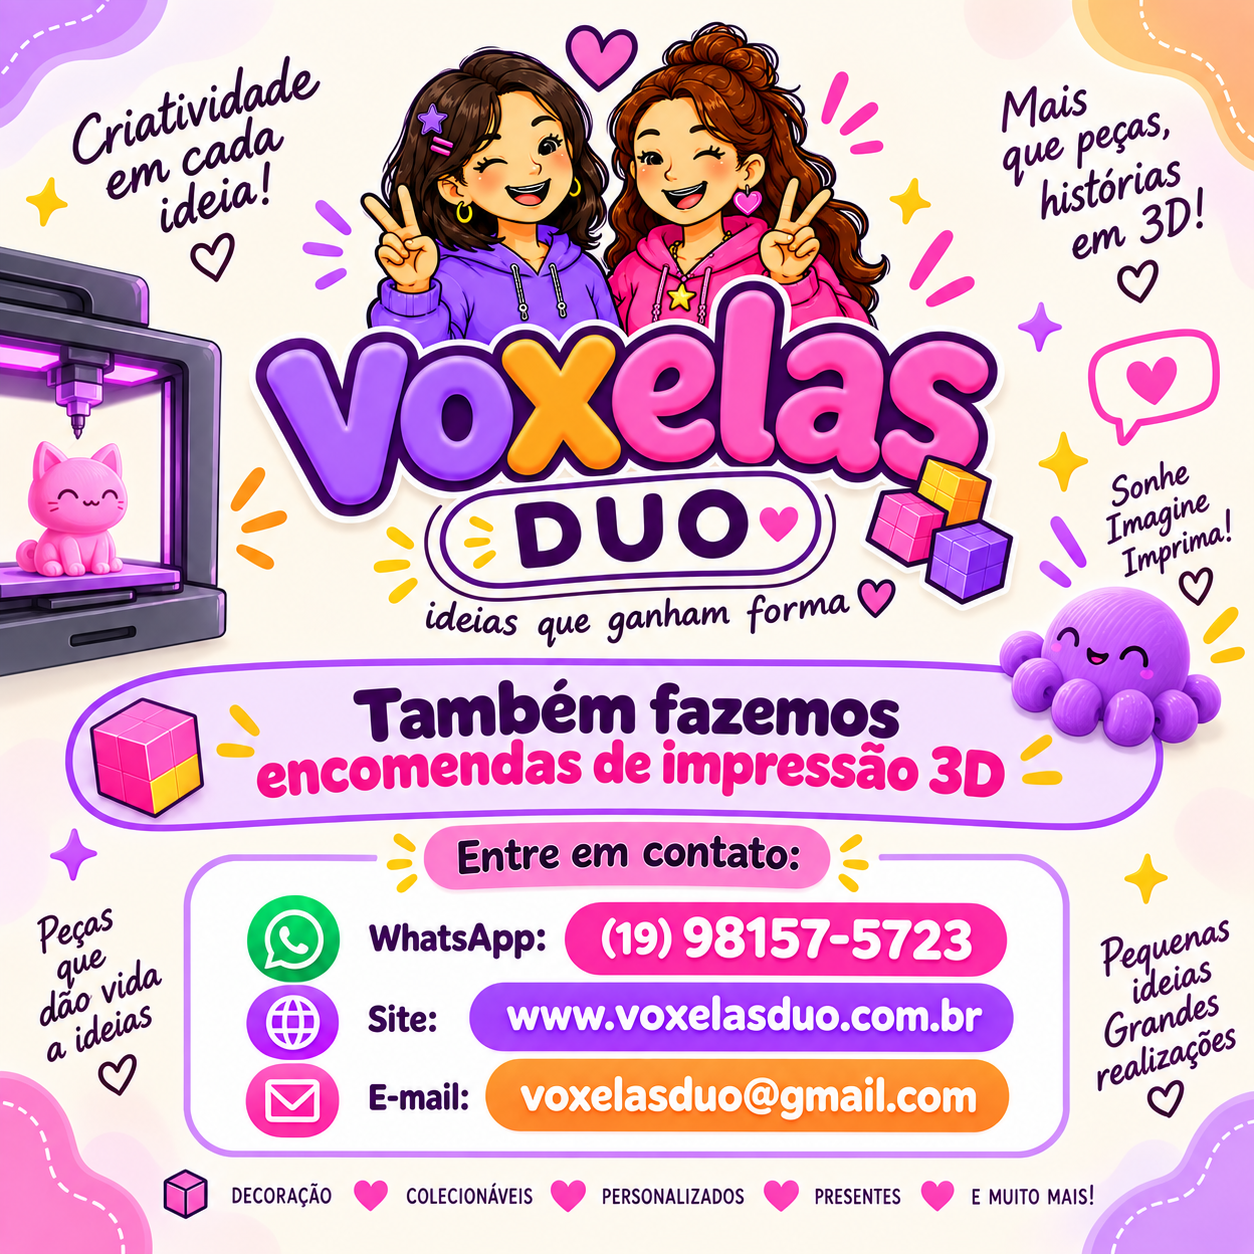
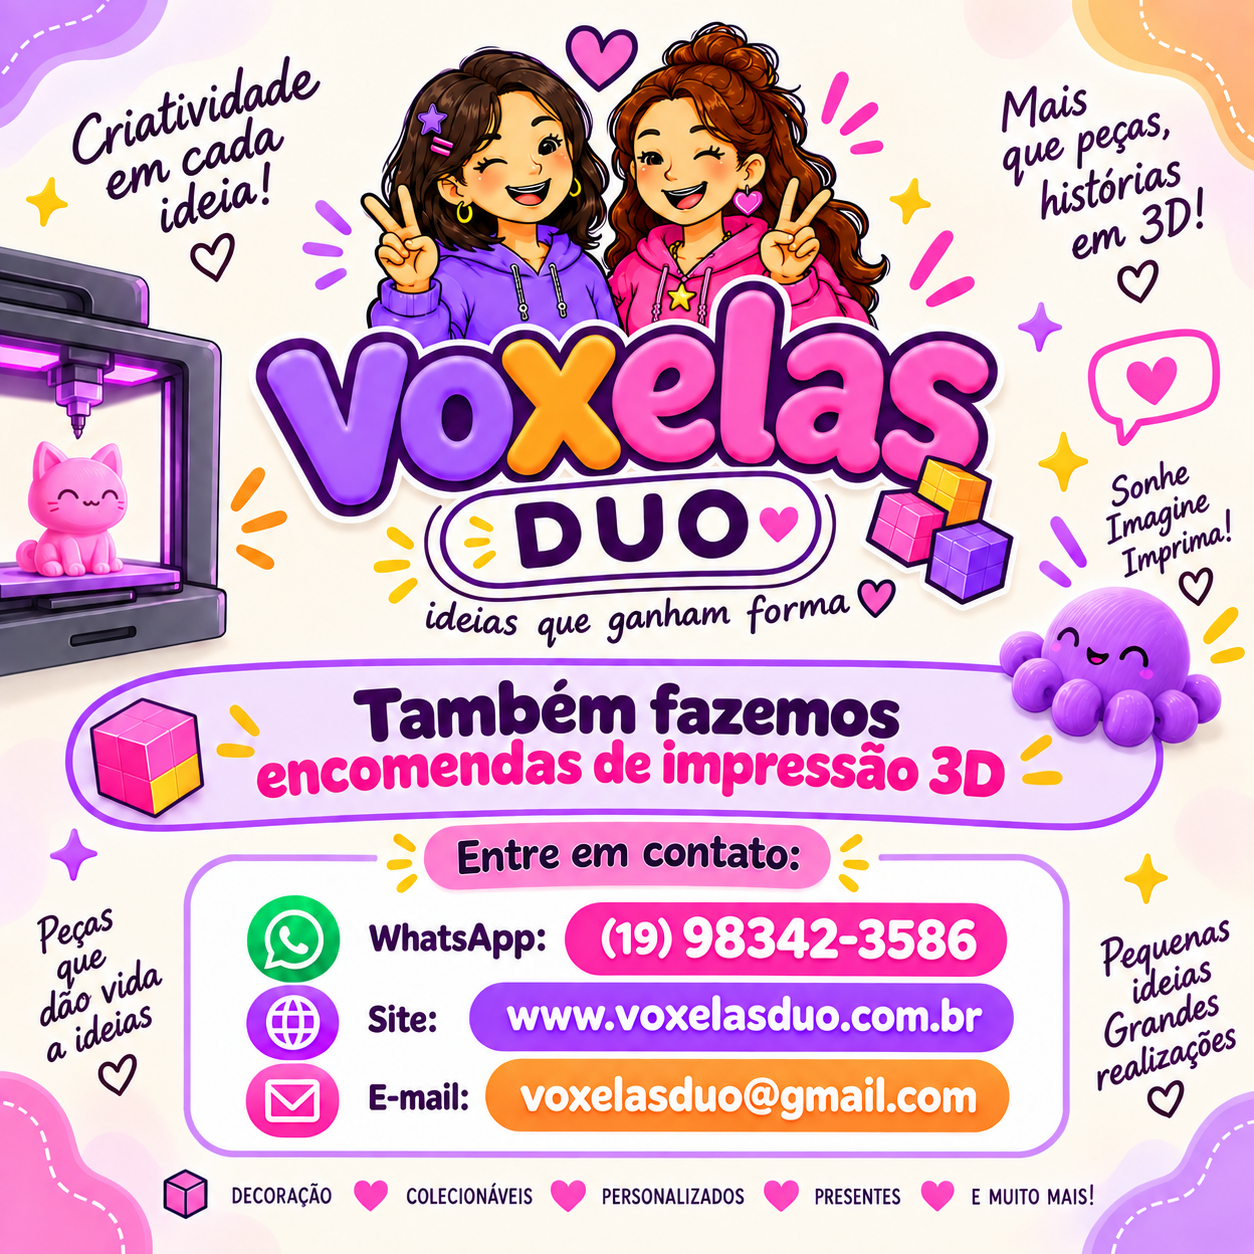
feat(site): rodapé com WhatsApp e Instagram oficiais e contatos centralizados

diff --git a/app/links/page.tsx b/app/links/page.tsx
@@ -1,6 +1,8 @@
 import Link from "next/link";
 import type { Metadata } from "next";
 import type { ReactNode } from "react";
+import { IconeInstagram, IconeSite, IconeWhatsapp } from "@/components/IconesRedes";
+import { INSTAGRAM_TEXTO, INSTAGRAM_URL, WHATSAPP_TEXTO, WHATSAPP_URL } from "@/lib/contato";
 import styles from "./links.module.css";
 
 export const metadata: Metadata = {
@@ -30,36 +32,6 @@ function Cubo({ x, y, cor }: { x: number; y: number; cor: string }) {
   );
 }
 
-function IconeWhatsapp() {
-  return (
-    <svg viewBox="0 0 24 24" aria-hidden="true" focusable="false">
-      <path
-        fill="currentColor"
-        d="M17.472 14.382c-.297-.149-1.758-.867-2.03-.967-.273-.099-.471-.148-.67.15-.197.297-.767.966-.94 1.164-.173.199-.347.223-.644.075-.297-.15-1.255-.463-2.39-1.475-.883-.788-1.48-1.761-1.653-2.059-.173-.297-.018-.458.13-.606.134-.133.298-.347.446-.52.149-.174.198-.298.298-.497.099-.198.05-.371-.025-.52-.075-.149-.669-1.612-.916-2.207-.242-.579-.487-.5-.669-.51-.173-.008-.371-.01-.57-.01-.198 0-.52.074-.792.372-.272.297-1.04 1.016-1.04 2.479 0 1.462 1.065 2.875 1.213 3.074.149.198 2.096 3.2 5.077 4.487.709.306 1.262.489 1.694.625.712.227 1.36.195 1.871.118.571-.085 1.758-.719 2.006-1.413.248-.694.248-1.289.173-1.413-.074-.124-.272-.198-.57-.347m-5.421 7.403h-.004a9.87 9.87 0 01-5.031-1.378l-.361-.214-3.741.982.998-3.648-.235-.374a9.86 9.86 0 01-1.51-5.26c.001-5.45 4.436-9.884 9.888-9.884 2.64 0 5.122 1.03 6.988 2.898a9.825 9.825 0 012.893 6.994c-.003 5.45-4.437 9.884-9.885 9.884m8.413-18.297A11.815 11.815 0 0012.05 0C5.495 0 .16 5.335.157 11.892c0 2.096.547 4.142 1.588 5.945L.057 24l6.305-1.654a11.882 11.882 0 005.683 1.448h.005c6.554 0 11.89-5.335 11.893-11.893a11.821 11.821 0 00-3.48-8.413Z"
-      />
-    </svg>
-  );
-}
-
-function IconeInstagram() {
-  return (
-    <svg viewBox="0 0 24 24" aria-hidden="true" focusable="false" fill="none" stroke="currentColor" strokeWidth="2.2">
-      <rect x="3" y="3" width="18" height="18" rx="5.5" />
-      <circle cx="12" cy="12" r="4.2" />
-      <circle cx="17.4" cy="6.6" r="1.1" fill="currentColor" stroke="none" />
-    </svg>
-  );
-}
-
-function IconeSite() {
-  return (
-    <svg viewBox="0 0 24 24" aria-hidden="true" focusable="false" fill="none" stroke="currentColor" strokeWidth="2.2">
-      <circle cx="12" cy="12" r="9" />
-      <path d="M3 12h18M12 3c2.6 2.6 3.8 5.6 3.8 9s-1.2 6.4-3.8 9c-2.6-2.6-3.8-5.6-3.8-9S9.4 5.6 12 3Z" />
-    </svg>
-  );
-}
-
 type Canal = {
   nome: string;
   contato: string;
@@ -73,16 +45,16 @@ type Canal = {
 const CANAIS: Canal[] = [
   {
     nome: "WhatsApp",
-    contato: "(19) 98342-3586",
-    href: "https://wa.me/5519983423586",
+    contato: WHATSAPP_TEXTO,
+    href: WHATSAPP_URL,
     externo: true,
     cor: "var(--turquesa)",
     icone: <IconeWhatsapp />,
   },
   {
     nome: "Instagram",
-    contato: "@voxelasduo",
-    href: "https://www.instagram.com/voxelasduo",
+    contato: INSTAGRAM_TEXTO,
+    href: INSTAGRAM_URL,
     externo: true,
     cor: "var(--rosa)",
     icone: <IconeInstagram />,

diff --git a/components/SiteFooter.tsx b/components/SiteFooter.tsx
@@ -1,0 +1,60 @@
+import Link from "next/link";
+import { IconeInstagram, IconeWhatsapp } from "./IconesRedes";
+import { INSTAGRAM_TEXTO, INSTAGRAM_URL, WHATSAPP_TEXTO, WHATSAPP_URL } from "@/lib/contato";
+import styles from "./SiteFooter.module.css";
+
+// Faixa de "voxels" no topo do rodapé: a sequência de cores se repete até preencher a largura.
+const VOXELS = ["var(--roxo)", "var(--rosa)", "var(--laranja)", "var(--amarelo)", "var(--turquesa)"];
+
+export default function SiteFooter() {
+  const ano = new Date().getFullYear();
+
+  return (
+    <footer className={styles.footer}>
+      <div className={styles.voxels} aria-hidden="true">
+        {Array.from({ length: 40 }, (_, i) => (
+          <span key={i} style={{ background: VOXELS[i % VOXELS.length] }} />
+        ))}
+      </div>
+
+      <div className={`container ${styles.grade}`}>
+        <div className={styles.marca}>
+          <p className={styles.nome}>Voxelas Duo</p>
+          <p className={styles.lema}>ideias que ganham forma</p>
+        </div>
+
+        <nav className={styles.coluna} aria-label="Rodapé">
+          <h2 className={styles.titulo}>Navegue</h2>
+          <Link href="/produtos">Produtos</Link>
+          <Link href="/encomendas">Encomendas</Link>
+        </nav>
+
+        <div className={styles.coluna}>
+          <h2 className={styles.titulo}>Fale com a gente</h2>
+          <a href={WHATSAPP_URL} className={styles.canal} target="_blank" rel="noopener noreferrer">
+            <span className={`${styles.icone} ${styles.iconeWhatsapp}`}>
+              <IconeWhatsapp />
+            </span>
+            <span>
+              <span className={styles.canalNome}>WhatsApp</span>
+              {WHATSAPP_TEXTO}
+            </span>
+          </a>
+          <a href={INSTAGRAM_URL} className={styles.canal} target="_blank" rel="noopener noreferrer">
+            <span className={`${styles.icone} ${styles.iconeInstagram}`}>
+              <IconeInstagram />
+            </span>
+            <span>
+              <span className={styles.canalNome}>Instagram</span>
+              {INSTAGRAM_TEXTO}
+            </span>
+          </a>
+        </div>
+      </div>
+
+      <div className={`container ${styles.base}`}>
+        © {ano} Voxelas Duo · Produtos impressos em 3D
+      </div>
+    </footer>
+  );
+}

diff --git a/components/SiteFooter.module.css b/components/SiteFooter.module.css
@@ -1,0 +1,130 @@
+.footer {
+  margin-top: 4rem;
+  background: var(--surface);
+  border-top: 2px solid var(--surface-line);
+  overflow: hidden;
+}
+
+/* Fileira de cubinhos coloridos — a "camada" de impressão que fecha a página. */
+.voxels {
+  display: flex;
+  gap: 4px;
+  margin-top: -2px;
+}
+
+.voxels span {
+  flex: 0 0 auto;
+  width: 22px;
+  height: 10px;
+  border-radius: 0 0 4px 4px;
+}
+
+.grade {
+  display: grid;
+  grid-template-columns: 1.4fr 1fr 1.2fr;
+  gap: 2rem;
+  padding-top: 2.5rem;
+  padding-bottom: 2rem;
+}
+
+.nome {
+  margin: 0;
+  font-family: var(--font-display);
+  font-weight: 800;
+  font-size: 1.6rem;
+  line-height: 1.1;
+  color: var(--roxo);
+}
+
+.lema {
+  margin: 0.15rem 0 0;
+  font-family: var(--font-hand);
+  font-weight: 700;
+  font-size: 1.35rem;
+  color: var(--rosa);
+}
+
+.coluna {
+  display: flex;
+  flex-direction: column;
+  align-items: flex-start;
+  gap: 0.6rem;
+}
+
+.titulo {
+  margin: 0 0 0.2rem;
+  font-family: var(--font-body);
+  font-weight: 800;
+  font-size: 0.78rem;
+  letter-spacing: 0.08em;
+  text-transform: uppercase;
+  color: var(--texto-soft);
+}
+
+.coluna a {
+  color: var(--preto);
+  font-weight: 700;
+  text-decoration: none;
+}
+
+.coluna a:hover {
+  color: var(--roxo);
+}
+
+.coluna a:focus-visible {
+  outline: 2px solid var(--roxo);
+  outline-offset: 3px;
+  border-radius: 6px;
+}
+
+.canal {
+  display: flex;
+  align-items: center;
+  gap: 0.7rem;
+}
+
+.canalNome {
+  display: block;
+  font-size: 0.78rem;
+  font-weight: 600;
+  color: var(--texto-soft);
+}
+
+.icone {
+  display: grid;
+  place-items: center;
+  flex-shrink: 0;
+  width: 38px;
+  height: 38px;
+  border-radius: 12px;
+  color: #fff;
+}
+
+.icone svg {
+  width: 20px;
+  height: 20px;
+}
+
+.iconeWhatsapp {
+  background: var(--turquesa);
+}
+
+.iconeInstagram {
+  background: var(--rosa);
+}
+
+.base {
+  padding-top: 1rem;
+  padding-bottom: 1.5rem;
+  border-top: 1px dashed var(--surface-line);
+  font-size: 0.85rem;
+  color: var(--texto-soft);
+}
+
+@media (max-width: 768px) {
+  .grade {
+    grid-template-columns: 1fr;
+    gap: 1.75rem;
+    padding-top: 2rem;
+  }
+}

diff --git a/components/IconesRedes.tsx b/components/IconesRedes.tsx
@@ -1,0 +1,31 @@
+/** Ícones dos canais de contato (WhatsApp, Instagram, site), usados no rodapé e na página de links. */
+
+export function IconeWhatsapp() {
+  return (
+    <svg viewBox="0 0 24 24" aria-hidden="true" focusable="false">
+      <path
+        fill="currentColor"
+        d="M17.472 14.382c-.297-.149-1.758-.867-2.03-.967-.273-.099-.471-.148-.67.15-.197.297-.767.966-.94 1.164-.173.199-.347.223-.644.075-.297-.15-1.255-.463-2.39-1.475-.883-.788-1.48-1.761-1.653-2.059-.173-.297-.018-.458.13-.606.134-.133.298-.347.446-.52.149-.174.198-.298.298-.497.099-.198.05-.371-.025-.52-.075-.149-.669-1.612-.916-2.207-.242-.579-.487-.5-.669-.51-.173-.008-.371-.01-.57-.01-.198 0-.52.074-.792.372-.272.297-1.04 1.016-1.04 2.479 0 1.462 1.065 2.875 1.213 3.074.149.198 2.096 3.2 5.077 4.487.709.306 1.262.489 1.694.625.712.227 1.36.195 1.871.118.571-.085 1.758-.719 2.006-1.413.248-.694.248-1.289.173-1.413-.074-.124-.272-.198-.57-.347m-5.421 7.403h-.004a9.87 9.87 0 01-5.031-1.378l-.361-.214-3.741.982.998-3.648-.235-.374a9.86 9.86 0 01-1.51-5.26c.001-5.45 4.436-9.884 9.888-9.884 2.64 0 5.122 1.03 6.988 2.898a9.825 9.825 0 012.893 6.994c-.003 5.45-4.437 9.884-9.885 9.884m8.413-18.297A11.815 11.815 0 0012.05 0C5.495 0 .16 5.335.157 11.892c0 2.096.547 4.142 1.588 5.945L.057 24l6.305-1.654a11.882 11.882 0 005.683 1.448h.005c6.554 0 11.89-5.335 11.893-11.893a11.821 11.821 0 00-3.48-8.413Z"
+      />
+    </svg>
+  );
+}
+
+export function IconeInstagram() {
+  return (
+    <svg viewBox="0 0 24 24" aria-hidden="true" focusable="false" fill="none" stroke="currentColor" strokeWidth="2.2">
+      <rect x="3" y="3" width="18" height="18" rx="5.5" />
+      <circle cx="12" cy="12" r="4.2" />
+      <circle cx="17.4" cy="6.6" r="1.1" fill="currentColor" stroke="none" />
+    </svg>
+  );
+}
+
+export function IconeSite() {
+  return (
+    <svg viewBox="0 0 24 24" aria-hidden="true" focusable="false" fill="none" stroke="currentColor" strokeWidth="2.2">
+      <circle cx="12" cy="12" r="9" />
+      <path d="M3 12h18M12 3c2.6 2.6 3.8 5.6 3.8 9s-1.2 6.4-3.8 9c-2.6-2.6-3.8-5.6-3.8-9S9.4 5.6 12 3Z" />
+    </svg>
+  );
+}

diff --git a/app/encomendas/page.tsx b/app/encomendas/page.tsx
@@ -22,7 +22,7 @@ export default function EncomendasPage() {
           <div className={`${styles.palco} ${styles.palcoPoster}`}>
             <Image
               src="/images/encomendas.png"
-              alt="Voxelas Duo — também fazemos encomendas de impressão 3D. WhatsApp (19) 98157-5723, site www.voxelasduo.com.br, e-mail voxelasduo@gmail.com"
+              alt="Voxelas Duo — também fazemos encomendas de impressão 3D. WhatsApp (19) 98342-3586, site www.voxelasduo.com.br, e-mail voxelasduo@gmail.com"
               width={1254}
               height={1254}
               sizes="(max-width: 860px) 90vw, 460px"

diff --git a/lib/email/templates.ts b/lib/email/templates.ts
@@ -45,7 +45,7 @@ export function renderEmailLayout(input: {
   const logoHtml = `<img src="${logoUrl}" alt="Voxelas Duo" width="140" style="display:block;margin:0 auto;height:auto;max-width:140px;border:0;">`;
 
   const linhaRodape = input.permiteResposta
-    ? "Dúvidas? Responda este e-mail ou chame no WhatsApp (19) 98157-5723."
+    ? "Dúvidas? Responda este e-mail ou chame no WhatsApp (19) 98342-3586."
     : "Este é um e-mail automático — não responda.";
 
   // Aviso fixo em todos os e-mails: parte dos clientes relatou receber na pasta de spam.

diff --git a/components/encomendas/FormularioEncomenda.tsx b/components/encomendas/FormularioEncomenda.tsx
@@ -12,10 +12,8 @@ import {
   validarImagensEncomenda,
   type ErrosValidacao,
 } from "@/lib/encomendas/validacao";
+import { WHATSAPP_TEXTO, WHATSAPP_URL } from "@/lib/contato";
 import styles from "./encomendas.module.css";
-
-const WHATSAPP_TEXTO = "(19) 98157-5723";
-const WHATSAPP_URL = "https://wa.me/5519981575723";
 
 export default function FormularioEncomenda() {
   const [formulario, setFormulario] = useState({ nome: "", email: "", telefone: "", descricao: "", website: "" });

diff --git a/app/layout.tsx b/app/layout.tsx
@@ -1,4 +1,5 @@
 import type { Metadata } from "next";
+import SiteFooter from "@/components/SiteFooter";
 import SiteHeader from "@/components/SiteHeader";
 import CarrinhoProvider from "@/components/carrinho/CarrinhoProvider";
 import "./globals.css";
@@ -43,6 +44,7 @@ export default function RootLayout({
         <CarrinhoProvider>
           <SiteHeader />
           {children}
+          <SiteFooter />
         </CarrinhoProvider>
       </body>
     </html>

diff --git a/lib/contato.ts b/lib/contato.ts
@@ -1,0 +1,6 @@
+/** Canais oficiais da Voxelas Duo — fonte única para rodapé, página de links e formulário de encomenda. */
+export const WHATSAPP_TEXTO = "(19) 98342-3586";
+export const WHATSAPP_URL = "https://wa.me/5519983423586";
+
+export const INSTAGRAM_TEXTO = "@voxelasduo";
+export const INSTAGRAM_URL = "https://www.instagram.com/voxelasduo";

diff --git a/components/encomendas/encomendas.module.css b/components/encomendas/encomendas.module.css
@@ -35,7 +35,7 @@
 
 /* Assinatura da página: o pôster vira um adesivo colado no palco. */
 .palcoPoster {
-  background: var(--palco-fundo);
+  background: transparent;
   border-radius: 28px;
   padding: 1.6rem;
   display: flex;
